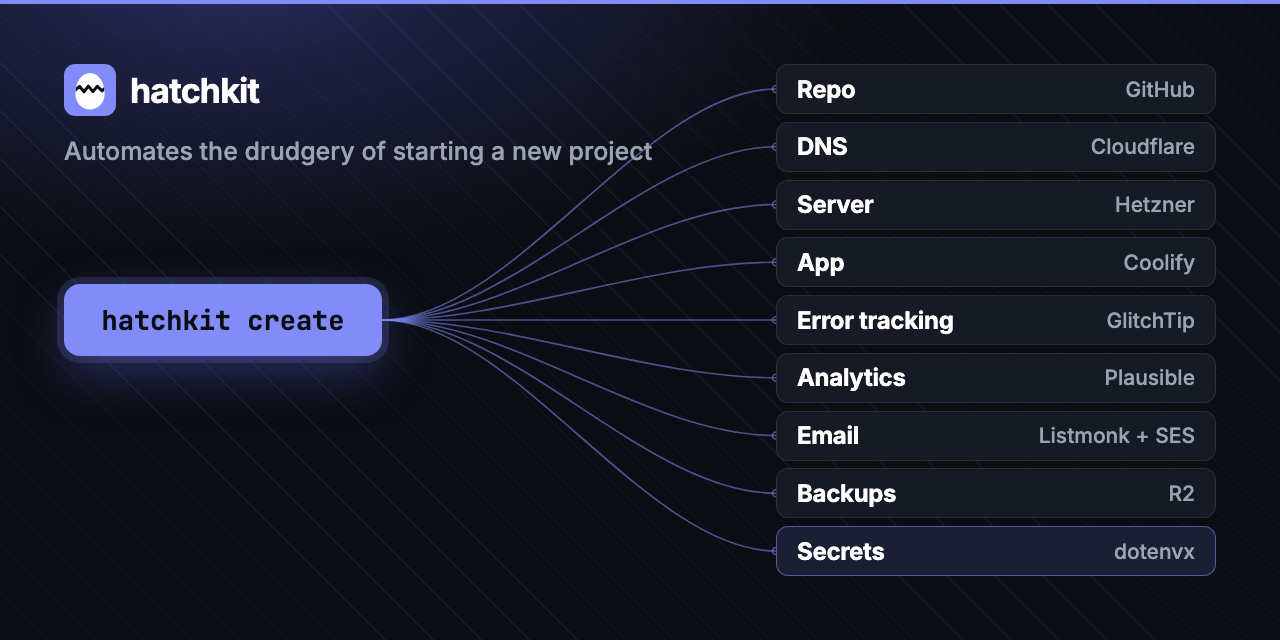
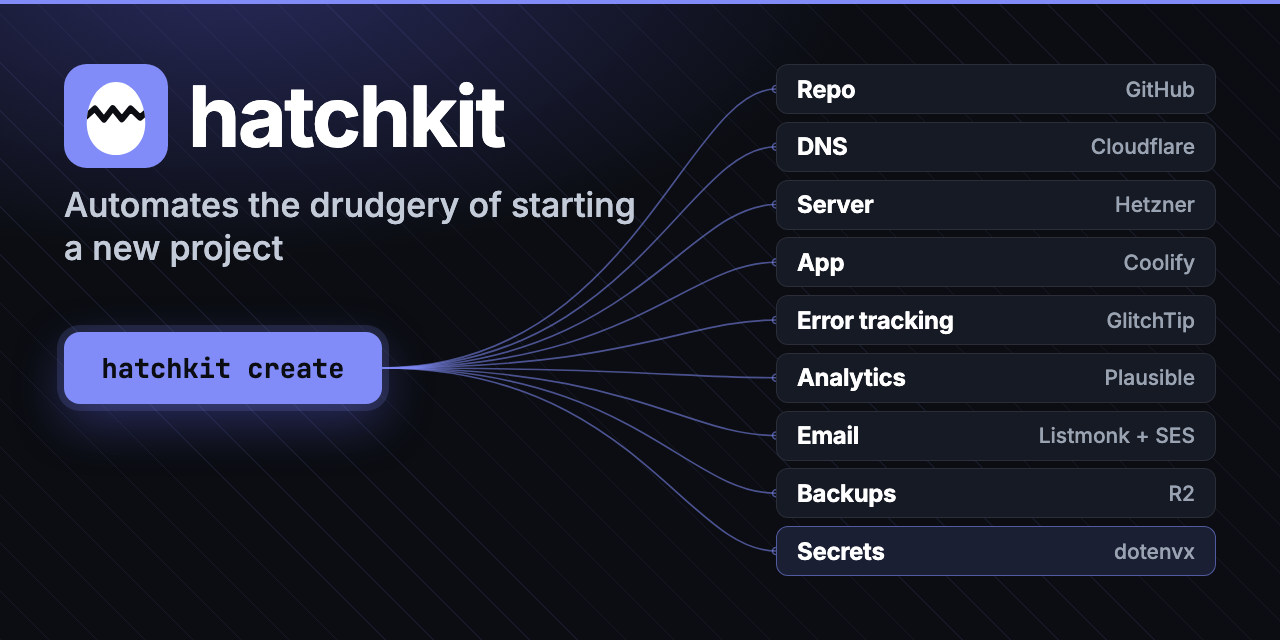
Give the GitHub social preview card the og:image card's layout
a3-2 (and its light twin a3-3) now draw the larger egg mark and wordmark, the
line broken after "starting" and the lowered pill, so the card Rico uploads to
GitHub matches the link preview. The og override keeps only its 672 px frame;
og-wordmark.png renders byte-identical.

diff --git a/docs/marketing/social-preview/template.html b/docs/marketing/social-preview/template.html
@@ -144,6 +144,14 @@
     box-shadow: 0 0 0 7px rgba(79,70,229,.12), 0 18px 44px rgba(79,70,229,.28); }
   .a3.light .node { border-color: var(--border-strong); box-shadow: 0 4px 14px rgba(17,20,28,.05); }
   .a3.light .node.key { border-color: rgba(79,70,229,.45); background: #eef0ff; }
+  /* a3-2 and a3-3: a larger egg mark and wordmark, the line larger and broken
+     after "starting"; the pill sits lower (see variantA3) so the wires rise only
+     past the two text lines. */
+  .a3.big .brand { gap: 20px; }
+  .a3.big .brand svg { width: 104px; height: 104px; }
+  .a3.big .brand span { font-size: 84px; letter-spacing: -2.4px; }
+  .a3.big .line { top: 184px; font-size: 34px; line-height: 1.25; color: #c3cad8; }
+  .a3.light.big .line { color: var(--muted); }
 </style>
 </head>
 <body>
@@ -267,20 +275,24 @@
     ["Backups", "R2"],
     ["Secrets", "dotenvx", "key"],
   ];
-  const A3_LINE = "Automates the drudgery of starting a new project";
+  const A3_LINE = "Automates the drudgery of starting<br>a new project";
+  // withLine (a3-2, a3-3): the pill moves down to y 368 and the wires stay flat
+  // for longer before they fan out. a3-1 keeps the original fan from y 320.
   function variantA3(withLine) {
-    const pitch = 57.75, top = 64, from = [382, 320], toX = 776;
+    const pitch = 57.75, top = 64, toX = 776;
+    const from = [382, withLine ? 368 : 320];
+    const [c1, c2] = withLine ? [250, 90] : [130, 130];
     const nodes = A3_NODES.map(([what, who, cls], i) =>
       `<div class="node ${cls ?? ""}" style="top:${top + i * pitch}px"><b>${what}</b><span>${who}</span></div>`).join("");
     const wires = A3_NODES.map((_, i) => {
       const y = top + i * pitch + 25;
-      return `<path d="M${from[0]} ${from[1]} C ${from[0] + 130} ${from[1]}, ${toX - 130} ${y}, ${toX} ${y}" />` +
+      return `<path d="M${from[0]} ${from[1]} C ${from[0] + c1} ${from[1]}, ${toX - c2} ${y}, ${toX} ${y}" />` +
         `<circle cx="${toX}" cy="${y}" r="3.5" />`;
     }).join("");
     return `<svg class="wires" viewBox="0 0 1280 640"><g fill="none" stroke-width="1.7">${wires}</g></svg>
       ${brand()}
       ${withLine ? `<div class="line">${A3_LINE}</div>` : ""}
-      <div class="cmd">hatchkit create</div>
+      <div class="cmd" style="top:${from[1] - 36}px">hatchkit create</div>
       ${nodes}`;
   }
 
@@ -290,6 +302,7 @@
   };
   const card = document.getElementById("card");
   card.classList.add(v.startsWith("a3") ? "a3" : v);
+  if (v === "a3-2" || v === "a3-3") card.classList.add("big");
   if (v === "b" || v === "d" || v === "a3-3") card.classList.add("light");
   document.getElementById("content").innerHTML = variants[v]();
 </script>

diff --git a/docs/marketing/README.md b/docs/marketing/README.md
@@ -18,8 +18,8 @@ Brand: the docs site's palettes (dark: near-black `#0b0d12` with indigo `#818cf8
 | [`social-preview/social-preview-c.png`](social-preview/social-preview-c.png) | Social preview candidate C, dark. "Your secrets, committed as ciphertext." beside `screenshots/create-secrets.png`. | 1280×640 | `pnpm marketing:social` | 2026-11-06 |
 | [`social-preview/social-preview-d.png`](social-preview/social-preview-d.png) | Social preview candidate D, light. Six secrets, what makes each one and where hatchkit delivers it. | 1280×640 | `pnpm marketing:social` | 2026-11-06 |
 | [`social-preview/social-preview-a3-1.png`](social-preview/social-preview-a3-1.png) | Round 3 candidate A3-1, dark. Card A with the text cut to labels: the wordmark, the `hatchkit create` pill and nine nodes, each a thing and its provider (Repo/GitHub, DNS/Cloudflare, Server/Hetzner, App/Coolify, Error tracking/GlitchTip, Analytics/Plausible, Email/Listmonk + SES, Backups/R2, Secrets/dotenvx). | 1280×640 | `pnpm marketing:social` | 2026-11-07 |
-| [`social-preview/social-preview-a3-2.png`](social-preview/social-preview-a3-2.png) | Round 3 candidate A3-2, dark. A3-1 plus one line under the wordmark: "Automates the drudgery of starting a new project". | 1280×640 | `pnpm marketing:social` | 2026-11-07 |
-| [`social-preview/social-preview-a3-3.png`](social-preview/social-preview-a3-3.png) | Round 3 candidate A3-3, light. A3-2 in the light palette. | 1280×640 | `pnpm marketing:social` | 2026-11-07 |
+| [`social-preview/social-preview-a3-2.png`](social-preview/social-preview-a3-2.png) | Round 3 candidate A3-2, dark, the chosen card. A larger egg mark and wordmark, and under them "Automates the drudgery of starting / a new project" in two lines; the `hatchkit create` pill sits lower so the wires rise past the text. | 1280×640 | `pnpm marketing:social` | 2026-11-11 |
+| [`social-preview/social-preview-a3-3.png`](social-preview/social-preview-a3-3.png) | Round 3 candidate A3-3, light. A3-2 in the light palette. | 1280×640 | `pnpm marketing:social` | 2026-11-11 |
 | [`social-preview/template.html`](social-preview/template.html) | Source for every card: round 2 `?v=a`, `b`, `c`, `d`; round 3 `?v=a3-1`, `a3-2`, `a3-3`. | 1280×640 | hand-written | 2026-11-07 |
 | [`social-preview/og-wordmark.png`](social-preview/og-wordmark.png) | og:image. Card A3-2 laid out at 1.91:1 with a larger egg mark and wordmark and a larger line, broken after "starting". The pill sits lower and the wires fan out later, so they clear the text. | 1200×630 | `pnpm marketing:social --og` | 2026-11-12 |
 | [`social-preview/og-clean.png`](social-preview/og-clean.png) | og:image without text. A3-2's `hatchkit create` pill and nine nodes, no wordmark or line, the glow behind the pill. | 1200×630 | `pnpm marketing:social --og` | 2026-11-11 |
@@ -74,4 +74,4 @@ Every name on the cards is a command, provider or env key in this repo. The plac
 
 What the cards leave out: provider tokens are entered once, at `hatchkit setup`, and a project with the Stripe feature asks for its Stripe keys during `create`. A provider that is not configured becomes a deferred step with its follow-up command.
 
-The live GitHub social preview is `social-preview-a3-2.png` (uploaded 2026-11-07). The cards here were re-rendered on 2026-11-12 with the egg mark in place of the earlier hatched-square logo; the uploaded copy still shows the old logo until it is uploaded again.
+The live GitHub social preview is `social-preview-a3-2.png` (uploaded 2026-11-07). On 2026-11-11 it got the egg mark in place of the earlier hatched-square logo and the larger lockup and two-line text of the og:image card; the uploaded copy shows the old card until it is uploaded again.
